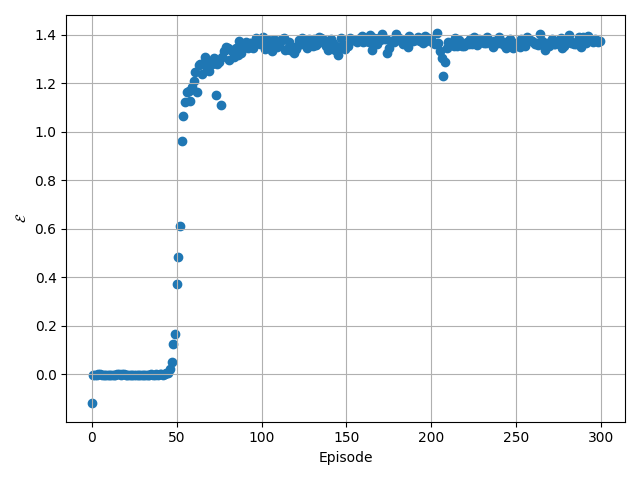
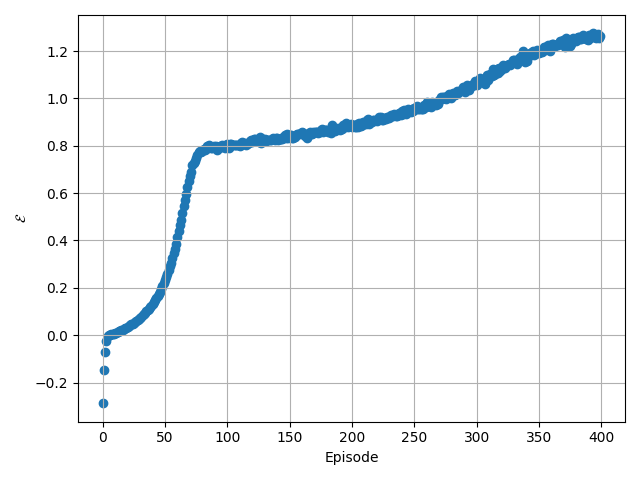
sigmoid env working

diff --git a/empowerment_train.py b/empowerment_train.py
@@ -5,13 +5,14 @@ from collections import namedtuple
 import matplotlib.pyplot as plt
 
 
-from pendulum_v2 import PendulumEnv
-from ball_box import BallBoxEnv
+from env_pendulum import PendulumEnv
+from env_ball_box import BallBoxEnv
+from env_sigmoid import SigmoidEnv
 from empowerment import Empowerment
 from controller import Controller
 from bayes_filter import BayesFilter
 from replay_memory import ReplayMemory
-from empowerment_check import visualize_predictions_angles, visualize_predictions_positions, visualize_distributions
+from empowerment_check import visualize_predictions_angles, visualize_predictions_positions, visualize_distributions, visualize_predictions_sigmoid, visualize_distributions_sigmoid
 
 
 Record = namedtuple('Transition', ['ep', 'E'])
@@ -28,8 +29,9 @@ def train_empowerment(env, empowerment, bayes_filter, replay_memory, args):
             batch_dict = replay_memory.next_batch_train()
             x, u = torch.from_numpy(batch_dict["states"]), torch.from_numpy(batch_dict['inputs'])
 
-            _, _, z_pred, _ = bayes_filter.propagate_solution(x, u)
-            E[b, :] = empowerment.update(z_pred.view(-1, z_pred.shape[2]))
+            #_, _, z_pred, _ = bayes_filter.propagate_solution(x, u)
+            #E[b, :] = empowerment.update(z_pred.view(-1, z_pred.shape[2]))
+            E[b, :] = empowerment.update(x.view(-1, 1))
 
         if i % 10 == 0:
             with torch.no_grad():
@@ -38,6 +40,9 @@ def train_empowerment(env, empowerment, bayes_filter, replay_memory, args):
                 elif isinstance(env, BallBoxEnv):
                     visualize_predictions_positions(empowerment, bayes_filter, replay_memory)
                     #visualize_distributions(empowerment, bayes_filter, replay_memory)
+                elif isinstance(env, SigmoidEnv):
+                    visualize_predictions_sigmoid(empowerment, bayes_filter, replay_memory, ep=i)
+                    visualize_distributions_sigmoid(empowerment, bayes_filter, replay_memory)
 
         records[i] = Record(i, E.mean())
         print(f'ep = {i}, empowerment = {records[i].E:.4f}')
@@ -49,7 +54,7 @@ def train_empowerment(env, empowerment, bayes_filter, replay_memory, args):
     ax.set_ylabel('$\\mathcal{E}$')
     ax.grid('on')
     fig.tight_layout()
-    plt.savefig('img/reward_vs_empowerment.png')
+    plt.savefig('img/curve_empowerment.png')
 
 
 def main():
@@ -58,9 +63,9 @@ def main():
     parser.add_argument('--val_frac', type=float, default=0.1,
                         help='fraction of data to be witheld in validation set')
     parser.add_argument('--seq_length', type=int, default=16, help='sequence length for training')
-    parser.add_argument('--batch_size', type=int, default=64, help='minibatch size')
-    parser.add_argument('--num_epochs', type=int, default=300, help='number of epochs')
-    parser.add_argument('--n_trials', type=int, default=200,
+    parser.add_argument('--batch_size', type=int, default=512, help='minibatch size')
+    parser.add_argument('--num_epochs', type=int, default=400, help='number of epochs')
+    parser.add_argument('--n_trials', type=int, default=400,
                         help='number of data sequences to collect in each episode')
     parser.add_argument('--trial_len', type=int, default=32, help='number of steps in each trial')
     parser.add_argument('--n_subseq', type=int, default=4,
@@ -72,13 +77,13 @@ def main():
 
     torch.manual_seed(0)
     np.random.seed(0)
-    env = BallBoxEnv()
+    env = SigmoidEnv()
     env.seed(0)
 
     controller = Controller(env)
     replay_memory = ReplayMemory(args, controller=controller, env=env)
     bayes_filter = BayesFilter.init_from_replay_memory(replay_memory)
-    bayes_filter.load_params()
+    #bayes_filter.load_params()
 
     empowerment = Empowerment(env, controller=controller, transition_network=bayes_filter)
 

diff --git a/empowerment_check.py b/empowerment_check.py
@@ -6,6 +6,66 @@ import matplotlib.cm as cm
 import scipy.stats as stats
 
 
+def visualize_predictions_sigmoid(empowerment, bayes_filter, replay_memory, ep=-1):
+    reps = 100
+    steps = 11
+
+    fig, ax = plt.subplots(ncols=2, nrows=1, figsize=(6, 3))
+    fig.suptitle(f'epoch = {ep}')
+
+    s = torch.Tensor(np.linspace(0, 1, steps)).view(-1, 1, 1).repeat(1, reps, 1).view(-1, 1)
+    value_map = empowerment(s).view(steps, reps, 1).mean(1).detach().numpy()
+    ax[0].imshow(value_map.reshape(-1, 1))
+    ax[0].set_yticks(np.linspace(0, steps, steps))
+    ax[0].set_yticklabels(list(np.around(np.linspace(0, 1, steps), decimals=2)))
+
+    steps = 110
+    s = torch.Tensor(np.linspace(0, 1, steps))
+    value_map = empowerment(s.view(-1, 1, 1).repeat(1, reps, 1).view(-1, 1)).view(steps, reps, 1).mean(1).detach().numpy()
+    ax[1].scatter(s.numpy(), value_map)
+
+    plt.savefig('img/empowerment_landscape.png')
+
+
+def visualize_distributions_sigmoid(empowerment, bayes_filter, replay_memory):
+    replay_memory.reset_batchptr_train()
+
+    X = []
+    for b in range(1):
+        batch_dict = replay_memory.next_batch_train()
+        x, u = torch.from_numpy(batch_dict["states"]), torch.from_numpy(batch_dict['inputs'])
+
+        x = x.reshape(-1, x.shape[2])
+        X.append(x)
+
+    X = torch.cat(X, dim=0)
+
+    fig, ax = plt.subplots(ncols=1, nrows=1, figsize=(6, 3))
+    ax.hist(X[:, 0].numpy(), bins=10)
+    ax.set_xlabel('x at dim=0')
+    plt.tight_layout()
+    plt.savefig('img/dist_x.png')
+
+    (μ_ω, σ_ω) = empowerment.source(X.view(-1, 1))
+    dist_ω = Normal(μ_ω, σ_ω)
+    a_ω = dist_ω.sample()
+
+    X_ = torch.sigmoid(a_ω+X.view(-1, 1))
+
+    X_pln = torch.cat((X, X_), dim=1)
+    (μ_pln, σ_pln) = empowerment.planning(X_pln)
+    dist_pln = Normal(μ_pln.view(-1, 1), σ_pln.view(-1, 1))     # dist_pln dim = [B, z_dim]
+    a_pln = dist_pln.sample()
+
+    fig, ax = plt.subplots(ncols=2, nrows=1, figsize=(6, 3))
+    ax[0].hist(a_pln.view(-1, 1)[:, 0].numpy(), bins=10)
+    ax[0].set_xlabel('$a^q$ at dim=0')
+    ax[1].hist(a_ω.view(-1, 1)[:, 0].numpy(), bins=10)
+    ax[1].set_xlabel('$a^\omega$ at dim=0')
+    plt.tight_layout()
+    plt.savefig('img/dist_source.png')
+
+
 def visualize_predictions_angles(empowerment, bayes_filter):
     x_pxl, y_pxl = 100, 100
 

diff --git a/env_sigmoid.py b/env_sigmoid.py
@@ -1,0 +1,79 @@
+import gym
+from gym import spaces
+from gym.utils import seeding
+import numpy as np
+from os import path
+
+
+def sigmoid(X):
+   return 1/(1+np.exp(-X))
+
+
+import gym
+from gym import spaces
+from gym.utils import seeding
+import numpy as np
+
+
+class SigmoidEnv(gym.Env):
+    metadata = {
+        'render.modes': ['human', 'rgb_array'],
+        'video.frames_per_second': 30
+    }
+
+    def __init__(self):
+        self.viewer = None
+
+        self.action_space = spaces.Box(
+            low=-3,
+            high=3, shape=(1,),
+            dtype=np.float32
+        )
+
+        self.observation_space = spaces.Box(
+            low=0,
+            high=1, shape=(1,),
+            dtype=np.float32
+        )
+
+    def seed(self, seed=None):
+        self.np_random, seed = seeding.np_random(seed)
+        return [seed]
+
+    def step(self, u):
+        x = self.state
+
+        x += u
+        self.state = sigmoid(x)
+        return self.state, None, False, {}
+
+    def reset(self):
+        self.state = self.np_random.uniform(low=0, high=1)
+        self.last_u = None
+        return self._get_obs()
+
+    def _get_obs(self):
+        return self.state
+
+    def close(self):
+        if self.viewer:
+            self.viewer.close()
+            self.viewer = None
+
+    def render(self, mode='human'):
+        if self.viewer is None:
+            from gym.envs.classic_control import rendering
+            self.viewer = rendering.Viewer(500, 500)
+            self.viewer.set_bounds(0, 1, -.5, .5)
+            ball = rendering.make_circle(.01)
+            ball.set_color(0, 0, 0)
+            self.ball_transform = rendering.Transform()
+            ball.add_attr(self.ball_transform)
+            self.viewer.add_geom(ball)
+            self.imgtrans = rendering.Transform()
+            # self.img.add_attr(self.imgtrans)
+
+        # self.viewer.add_onetime(self.img)
+        self.ball_transform.set_translation(self.state[0], 0)
+
+        return self.viewer.render(return_rgb_array=mode == 'rgb_array')

diff --git a/empowerment.py b/empowerment.py
@@ -27,16 +27,17 @@ class Empowerment(nn.Module):
         self.h_dim = 128
         self.action_dim = controller.action_space.shape[0]
         self.transition = transition_network
-        self.z_dim = transition_network.z_dim
+        self.z_dim = 1#transition_network.z_dim
 
+        self.env = env
         self.source = Net(self.z_dim, self.action_dim, self.h_dim)
         self.planning = Net(self.z_dim*2, self.action_dim, self.h_dim)
         self.auto_regressive = Net(self.z_dim * 2 + self.action_dim, self.action_dim, self.h_dim)
 
         self.optimizer_planning = optim.Adam(list(self.planning.parameters())
-                                    + list(self.auto_regressive.parameters()), lr=1e-2)
-        self.optimizer_source = optim.Adam(self.source.parameters(), lr=1e-3)
-        self.planning_steps = 10
+                                    + list(self.auto_regressive.parameters()), lr=1e-4)
+        self.optimizer_source = optim.Adam(self.source.parameters(), lr=1e-5)
+        self.planning_steps = 4
 
         self.it = 0
 
@@ -44,13 +45,16 @@ class Empowerment(nn.Module):
         all_a_ω = []
         all_log_prob_ω = []
         z_ = z
+        z_ = torch.clamp(z_, .1, .9)
         for t in range(n_steps):
             (μ_ω, σ_ω) = self.source(z_)
             dist_ω = Normal(μ_ω, σ_ω)
             a_ω = dist_ω.rsample()
             all_a_ω.append(a_ω.unsqueeze(1))
             all_log_prob_ω.append(dist_ω.log_prob(a_ω).unsqueeze(1))
-            z_, _ = self.transition(z=z_, u=a_ω)
+            #z_, _ = self.transition(z=z_, u=a_ω)
+            #a_ω = torch.clamp(a_ω, -3, 3)
+            z_ = torch.clamp(a_ω+z_, .1, .9)
 
         all_a_ω = torch.cat(all_a_ω, dim=1)
         all_log_prob_ω = torch.cat(all_log_prob_ω, dim=1)

diff --git a/bayes_filter_train.py b/bayes_filter_train.py
@@ -8,8 +8,8 @@ import argparse
 from bayes_filter import BayesFilter
 from replay_memory import ReplayMemory
 from controller import Controller
-from pendulum_v2 import PendulumEnv
-from ball_box import BallBoxEnv
+from env_pendulum import PendulumEnv
+from env_ball_box import BallBoxEnv
 from bayes_filter_check import visualize_predictions_angle, visualize_predictions_position
 
 Record = namedtuple('Record', ['ep', 'l_r', 'l_nll', 'l_k'])

diff --git a/bayes_filter_check.py b/bayes_filter_check.py
@@ -10,8 +10,8 @@ import os
 from bayes_filter import BayesFilter
 from replay_memory import ReplayMemory
 from controller import Controller
-from pendulum_v2 import PendulumEnv
-from ball_box import BallBoxEnv
+from env_pendulum import PendulumEnv
+from env_ball_box import BallBoxEnv
 
 Record = namedtuple('Record', ['ep', 'l'])
 

diff --git a/test.py b/test.py
@@ -3,7 +3,7 @@ import numpy as np
 from collections import namedtuple
 import matplotlib.pyplot as plt
 
-from pendulum_v2 import PendulumEnv
+from env_pendulum import PendulumEnv
 from controller import Controller
 from policy import Policy
 
